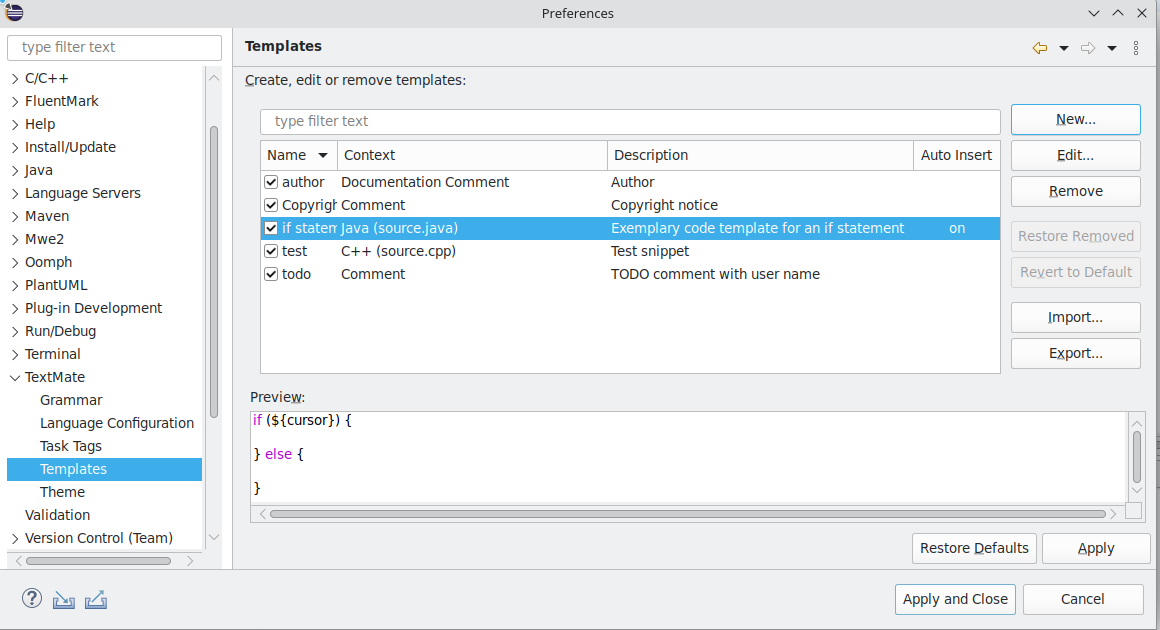
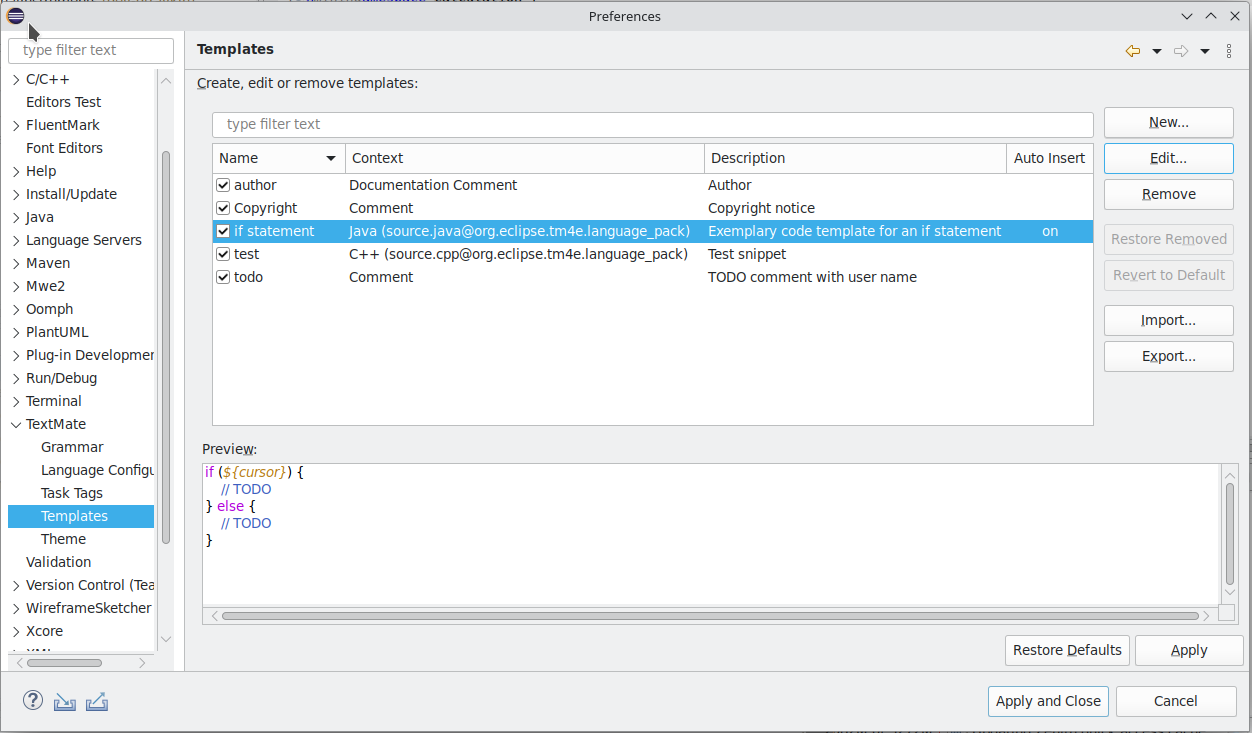
Highlight code template variables in preferences

Changed region(s): [[0.0, 0.0, 1.0, 1.0]]

diff --git a/org.eclipse.tm4e.ui/src/main/java/org/eclipse/tm4e/ui/internal/preferences/CustomCodeTemplatePreferencePage.java b/org.eclipse.tm4e.ui/src/main/java/org/eclipse/tm4e/ui/internal/preferences/CustomCodeTemplatePreferencePage.java
@@ -11,9 +11,17 @@
  *******************************************************************************/
 package org.eclipse.tm4e.ui.internal.preferences;
 
+import java.util.regex.Matcher;
+import java.util.regex.Pattern;
+
 import org.eclipse.jdt.annotation.Nullable;
+import org.eclipse.jface.text.BadLocationException;
 import org.eclipse.jface.text.Document;
 import org.eclipse.jface.text.IDocument;
+import org.eclipse.jface.text.IRegion;
+import org.eclipse.jface.text.ITextViewer;
+import org.eclipse.jface.text.Region;
+import org.eclipse.jface.text.TextPresentation;
 import org.eclipse.jface.text.contentassist.ContentAssistant;
 import org.eclipse.jface.text.contentassist.IContentAssistProcessor;
 import org.eclipse.jface.text.contentassist.IContentAssistant;
@@ -26,6 +34,8 @@ import org.eclipse.jface.text.templates.Template;
 import org.eclipse.jface.viewers.IStructuredSelection;
 import org.eclipse.jface.window.Window;
 import org.eclipse.swt.SWT;
+import org.eclipse.swt.custom.StyleRange;
+import org.eclipse.swt.graphics.Color;
 import org.eclipse.swt.layout.GridData;
 import org.eclipse.swt.widgets.Combo;
 import org.eclipse.swt.widgets.Composite;
@@ -39,6 +49,7 @@ import org.eclipse.tm4e.registry.ITMScope;
 import org.eclipse.tm4e.registry.TMEclipseRegistryPlugin;
 import org.eclipse.tm4e.ui.TMUIPlugin;
 import org.eclipse.tm4e.ui.internal.utils.CodeTemplateContextTypeUtils;
+import org.eclipse.tm4e.ui.text.ITMPresentationReconcilerListener;
 import org.eclipse.tm4e.ui.text.TMPresentationReconciler;
 import org.eclipse.ui.texteditor.templates.TemplatePreferencePage;
 
@@ -57,9 +68,105 @@ public class CustomCodeTemplatePreferencePage extends TemplatePreferencePage {
 		setContextTypeRegistry(TMUIPlugin.from(plugin.getTemplateContextRegistry()));
 	}
 
+	private static class TMTemplateVariableHighlighter {
+
+		// pattern for code template variables like ${variable_name} or ${horizontal:link(FILL, BEGINNING, CENTER, END)}
+		private static final Pattern VARIABLE_PATTERN = Pattern.compile("\\$\\{[^\\r\\n\\}]*\\}");
+		private static final Color VAR_COLOR_FOREGROUND = new Color(181, 123, 21);
+
+		private @Nullable IDocument document;
+
+		public void setDocument(@Nullable final IDocument document) {
+			this.document = document;
+		}
+
+		public void createPresentation(final @Nullable TextPresentation presentation, final @Nullable IRegion damage) {
+			if (presentation == null || damage == null || document == null) {
+				return;
+			}
+
+			try {
+				final String code = NullSafetyHelper.castNonNull(document).get(damage.getOffset(), damage.getLength());
+				final Matcher varMatcher = VARIABLE_PATTERN.matcher(code);
+				while (varMatcher.find()) {
+					final int offset = damage.getOffset() + varMatcher.start();
+					final int length = varMatcher.end() - varMatcher.start();
+					presentation.mergeStyleRange(new StyleRange(offset, length, VAR_COLOR_FOREGROUND, null, SWT.ITALIC));
+				}
+			} catch (final BadLocationException e) {
+				// do nothing
+			}
+		}
+
+	}
+
+	private static class TMCodeTemplatePresentationReconsiler extends TMPresentationReconciler {
+
+		private final TMTemplateVariableHighlighter templateVariableDamagerRepairer = new TMTemplateVariableHighlighter();
+		private @Nullable ITextViewer viewer;
+
+		@Override
+		public void install(final ITextViewer viewer) {
+			super.install(viewer);
+
+			this.viewer = viewer;
+		}
+
+		@Override
+		public void setGrammar(@Nullable final IGrammar newGrammar) {
+			super.setGrammar(newGrammar);
+
+			this.addListener(new ITMPresentationReconcilerListener() {
+
+				@Override
+				public void onUninstalled() {
+				}
+
+				@Override
+				public void onInstalled(final ITextViewer viewer, final IDocument document) {
+				}
+
+				@Override
+				public void onColorized(final TextPresentation presentation, @Nullable final Throwable error) {
+					if (viewer != null && viewer.getDocument() != null) {
+						final ITextViewer theViewer = NullSafetyHelper.castNonNull(viewer);
+
+						final IDocument document = theViewer.getDocument();
+						templateVariableDamagerRepairer.setDocument(document);
+
+						// highlight code template variables
+						final IRegion region = presentation.getExtent();
+						templateVariableDamagerRepairer.createPresentation(presentation, region);
+
+						theViewer.changeTextPresentation(presentation, false);
+					}
+				}
+			});
+
+			if (newGrammar == null && viewer != null && viewer.getDocument() != null) {
+				final ITextViewer theViewer = NullSafetyHelper.castNonNull(viewer);
+
+				final IDocument document = NullSafetyHelper.castNonNull(theViewer.getDocument());
+				templateVariableDamagerRepairer.setDocument(document);
+
+				// create default style range for whole document
+				final IRegion region = new Region(0, document.getLength());
+				final TextPresentation presentation = new TextPresentation(region, 100);
+				presentation.setDefaultStyleRange(new StyleRange(region.getOffset(), region.getLength(), null, null));
+
+				// highlight code template variables
+				templateVariableDamagerRepairer.createPresentation(presentation, region);
+
+				theViewer.changeTextPresentation(presentation, false);
+			}
+		}
+
+	}
+
 	private static class TMEditTemplateDialog extends TemplatePreferencePage.EditTemplateDialog {
 
 		private @Nullable TMPresentationReconciler editTemplatePresentationReconsiler = null;
+		private @Nullable Combo contextTypeDropDownList = null;
 
 		public TMEditTemplateDialog(final Shell shell, final Template template, final boolean edit, final boolean isNameModifiable,
 				@SuppressWarnings("deprecation") final org.eclipse.jface.text.templates.ContextTypeRegistry contextTypeRegistry) {
@@ -85,13 +192,14 @@ public class CustomCodeTemplatePreferencePage extends TemplatePreferencePage {
 									foundNameField = true;
 								} else if (childControlLvl3 instanceof final Combo dropDownList) {
 									foundDropDownList = true;
+
+									contextTypeDropDownList = dropDownList;
+
+									updateSyntaxHighlighting();
+
 									dropDownList.addModifyListener(e -> {
-										if (editTemplatePresentationReconsiler != null
-												&& e.widget instanceof final Combo combo
-												&& !combo.isDisposed()) {
-											final String activeContextTypeName = combo.getText();
-											final IGrammar grammar = CodeTemplateContextTypeUtils.toGrammar(activeContextTypeName);
-											NullSafetyHelper.castNonNull(editTemplatePresentationReconsiler).setGrammar(grammar);
+										if (e.widget instanceof Combo) {
+											updateSyntaxHighlighting();
 										}
 									});
 								}
@@ -106,6 +214,17 @@ public class CustomCodeTemplatePreferencePage extends TemplatePreferencePage {
 			}
 
 			return result;
+		}
+
+		private void updateSyntaxHighlighting() {
+			if (editTemplatePresentationReconsiler == null || contextTypeDropDownList == null
+					|| NullSafetyHelper.castNonNull(contextTypeDropDownList).isDisposed()) {
+				return;
+			}
+
+			final String activeContextTypeName = NullSafetyHelper.castNonNull(contextTypeDropDownList).getText();
+			final IGrammar grammar = CodeTemplateContextTypeUtils.toGrammar(activeContextTypeName);
+			NullSafetyHelper.castNonNull(editTemplatePresentationReconsiler).setGrammar(grammar);
 		}
 
 		@Override
@@ -131,14 +250,15 @@ public class CustomCodeTemplatePreferencePage extends TemplatePreferencePage {
 
 					@Override
 					public IPresentationReconciler getPresentationReconciler(@Nullable final ISourceViewer sourceViewer) {
-						// TODO Is there a hopefully easy way of adding highlighting for code template variables in all grammars?
-						editTemplatePresentationReconsiler = new TMPresentationReconciler();
+						editTemplatePresentationReconsiler = new TMCodeTemplatePresentationReconsiler();
 						return editTemplatePresentationReconsiler;
 					}
 				};
 
 				originalViewer.configure(configuration);
 			}
+
+			originalViewer.addTextListener(event -> updateSyntaxHighlighting());
 
 			return originalViewer;
 		}
@@ -170,8 +290,7 @@ public class CustomCodeTemplatePreferencePage extends TemplatePreferencePage {
 		final SourceViewerConfiguration configuration = new SourceViewerConfiguration() {
 			@Override
 			public IPresentationReconciler getPresentationReconciler(@Nullable final ISourceViewer sourceViewer) {
-				// TODO Is there a hopefully easy way of adding highlighting for code template variables in all grammars?
-				previewReconsiler = new TMPresentationReconciler();
+				previewReconsiler = new TMCodeTemplatePresentationReconsiler();
 				return previewReconsiler;
 			}
 		};

diff --git a/org.eclipse.tm4e.ui/src/main/java/org/eclipse/tm4e/ui/TMUIPlugin.java b/org.eclipse.tm4e.ui/src/main/java/org/eclipse/tm4e/ui/TMUIPlugin.java
@@ -206,6 +206,7 @@ public class TMUIPlugin extends AbstractUIPlugin {
 				final ITMScope languageScope = definition.getScope();
 				final IGrammar languageGrammar = TMEclipseRegistryPlugin.getGrammarRegistryManager().getGrammarForScope(languageScope);
 				if (languageGrammar != null) {
+					// TODO It seems TemplatePreferencePage.EditTemplateDialog requires the context type names to be unique. Can we shorten the names somehow?
 					final String contextTypeName = CodeTemplateContextTypeUtils.toContextTypeName(languageGrammar);
 					final TMLanguageTemplateContextType languageContextType = new TMLanguageTemplateContextType(
 							contextTypeName, languageScope);
